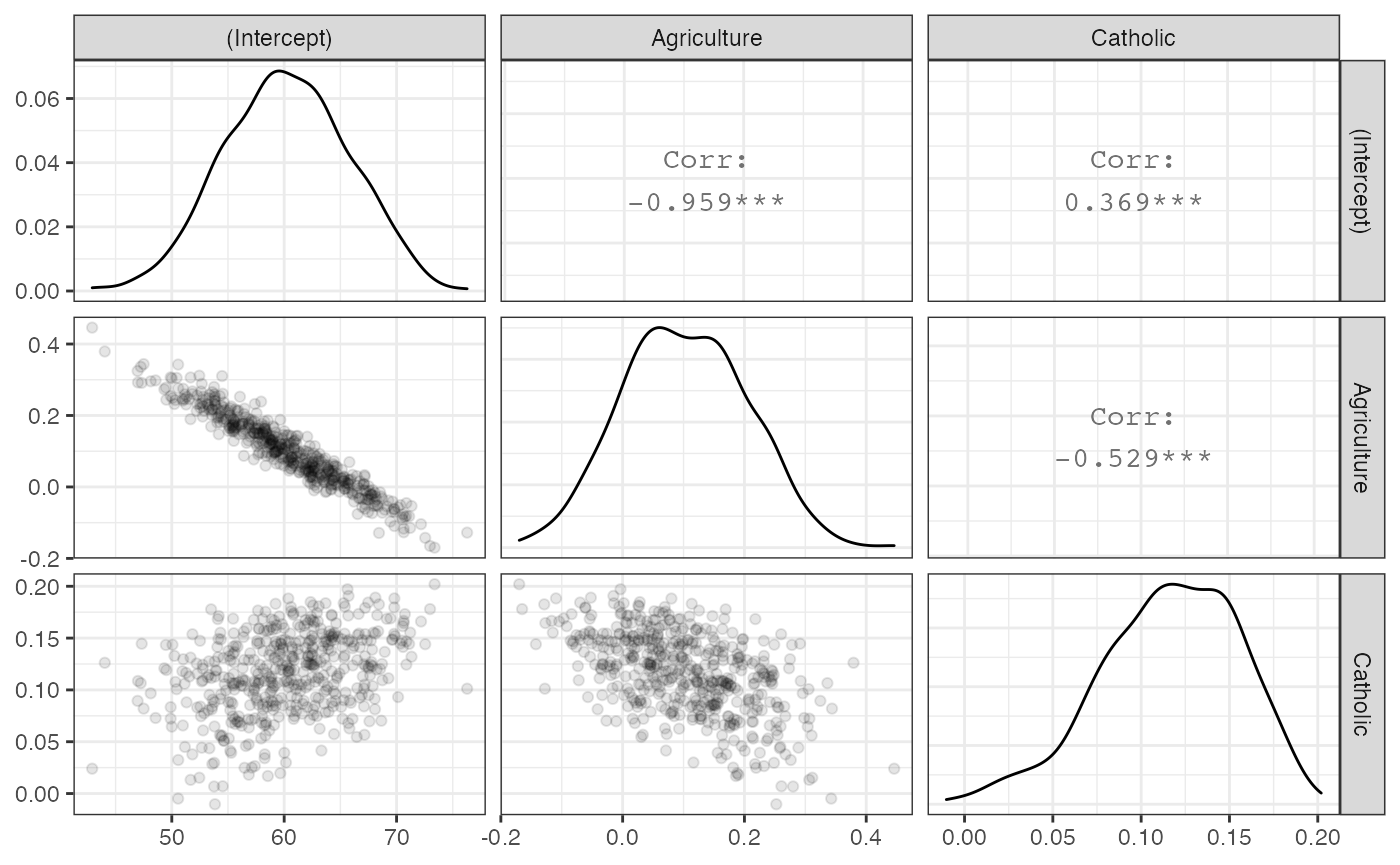
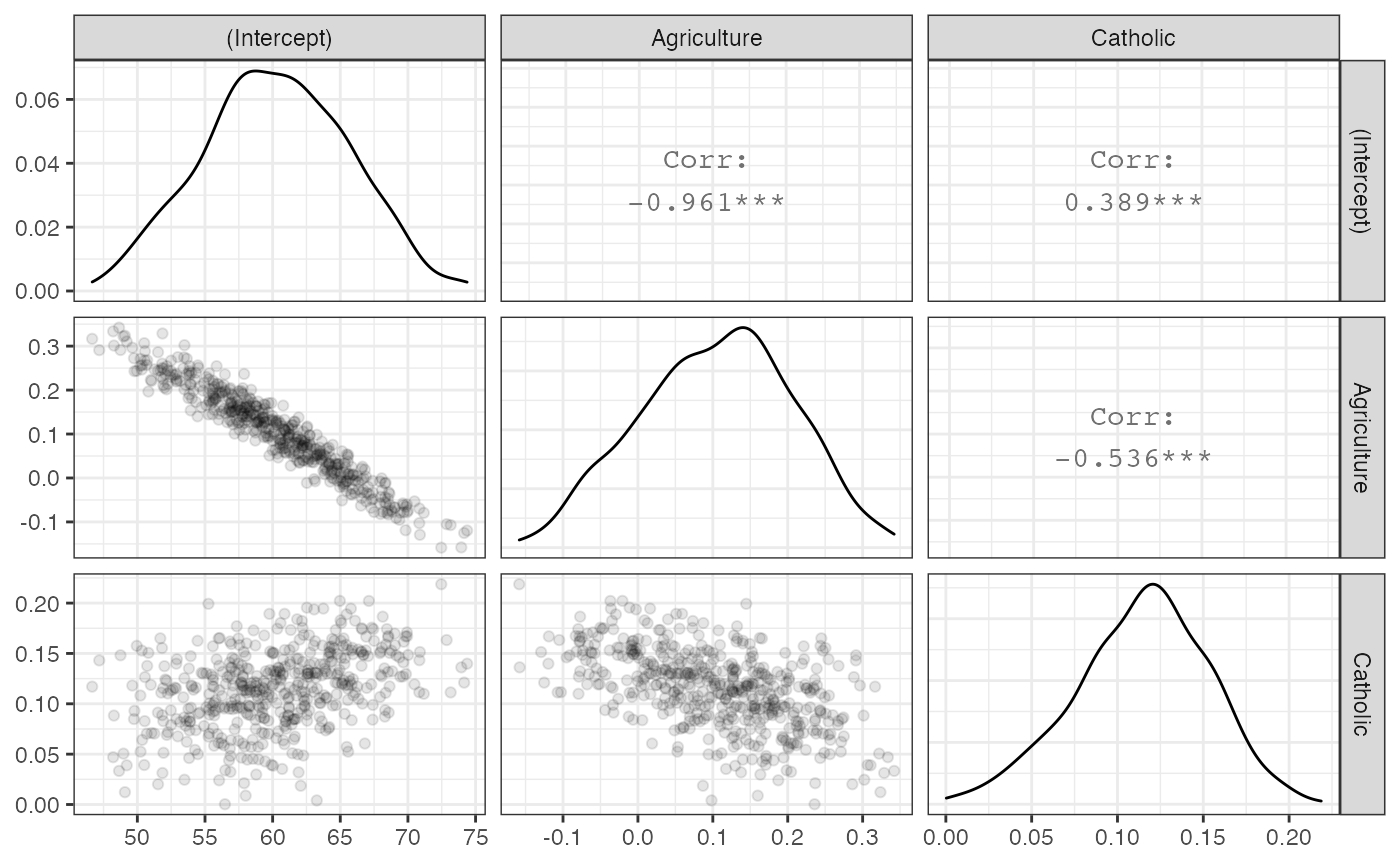
Deploying to gh-pages from  @ 5f8735e298962d34634c9876378ea99cee0b9883 🚀

diff --git a/r/estimatr/articles/estimatr-in-the-tidyverse.html b/r/estimatr/articles/estimatr-in-the-tidyverse.html
@@ -271,72 +271,72 @@
 <tr class="odd">
 <td align="left">1</td>
 <td align="left">(Intercept)</td>
-<td align="right">65.0765411</td>
-<td align="right">5.6414294</td>
-<td align="right">11.5354704</td>
+<td align="right">61.9195031</td>
+<td align="right">3.6852281</td>
+<td align="right">16.8020818</td>
 <td align="right">0.0000000</td>
-<td align="right">53.7069873</td>
-<td align="right">76.4460949</td>
+<td align="right">54.4924140</td>
+<td align="right">69.3465922</td>
 <td align="right">44</td>
 <td align="left">Fertility</td>
 </tr>
 <tr class="even">
 <td align="left">1</td>
 <td align="left">Catholic</td>
-<td align="right">0.0835936</td>
-<td align="right">0.0415143</td>
-<td align="right">2.0136094</td>
-<td align="right">0.0501916</td>
-<td align="right">-0.0000730</td>
-<td align="right">0.1672602</td>
+<td align="right">0.0319474</td>
+<td align="right">0.0436074</td>
+<td align="right">0.7326136</td>
+<td align="right">0.4676791</td>
+<td align="right">-0.0559376</td>
+<td align="right">0.1198323</td>
 <td align="right">44</td>
 <td align="left">Fertility</td>
 </tr>
 <tr class="odd">
 <td align="left">1</td>
 <td align="left">Agriculture</td>
-<td align="right">0.0244790</td>
-<td align="right">0.1016749</td>
-<td align="right">0.2407578</td>
-<td align="right">0.8108612</td>
-<td align="right">-0.1804332</td>
-<td align="right">0.2293913</td>
+<td align="right">0.1377071</td>
+<td align="right">0.0880450</td>
+<td align="right">1.5640543</td>
+<td align="right">0.1249694</td>
+<td align="right">-0.0397359</td>
+<td align="right">0.3151501</td>
 <td align="right">44</td>
 <td align="left">Fertility</td>
 </tr>
 <tr class="even">
 <td align="left">2</td>
 <td align="left">(Intercept)</td>
-<td align="right">57.3460896</td>
-<td align="right">5.0974726</td>
-<td align="right">11.2499065</td>
+<td align="right">59.0139377</td>
+<td align="right">6.1833696</td>
+<td align="right">9.5439770</td>
 <td align="right">0.0000000</td>
-<td align="right">47.0728087</td>
-<td align="right">67.6193705</td>
+<td align="right">46.5521750</td>
+<td align="right">71.4757003</td>
 <td align="right">44</td>
 <td align="left">Fertility</td>
 </tr>
 <tr class="odd">
 <td align="left">2</td>
 <td align="left">Catholic</td>
-<td align="right">0.0999997</td>
-<td align="right">0.0451481</td>
-<td align="right">2.2149285</td>
-<td align="right">0.0319889</td>
-<td align="right">0.0090098</td>
-<td align="right">0.1909897</td>
+<td align="right">0.0964357</td>
+<td align="right">0.0392964</td>
+<td align="right">2.4540578</td>
+<td align="right">0.0181534</td>
+<td align="right">0.0172390</td>
+<td align="right">0.1756324</td>
 <td align="right">44</td>
 <td align="left">Fertility</td>
 </tr>
 <tr class="even">
 <td align="left">2</td>
 <td align="left">Agriculture</td>
-<td align="right">0.1513348</td>
-<td align="right">0.1033881</td>
-<td align="right">1.4637549</td>
-<td align="right">0.1503690</td>
-<td align="right">-0.0570302</td>
-<td align="right">0.3596997</td>
+<td align="right">0.1289227</td>
+<td align="right">0.1107185</td>
+<td align="right">1.1644190</td>
+<td align="right">0.2505291</td>
+<td align="right">-0.0942158</td>
+<td align="right">0.3520612</td>
 <td align="right">44</td>
 <td align="left">Fertility</td>
 </tr>
@@ -350,9 +350,9 @@
 <pre><code>## # A tibble: 3 x 2
 ##   term        boot_se
 ## * &lt;chr&gt;         &lt;dbl&gt;
-## 1 (Intercept)  5.50  
-## 2 Agriculture  0.102 
-## 3 Catholic     0.0393</code></pre>
+## 1 (Intercept)  5.34  
+## 2 Agriculture  0.100 
+## 3 Catholic     0.0385</code></pre>
 <div class="sourceCode" id="cb15"><pre class="downlit sourceCode r">
 <code class="sourceCode R"><span class="co"># To visualize the sampling distribution</span>
 

diff --git a/r/estimatr/articles/absorbing-fixed-effects.html b/r/estimatr/articles/absorbing-fixed-effects.html
@@ -190,10 +190,10 @@
   times <span class="op">=</span> <span class="fl">50</span>
 <span class="op">)</span></code></pre></div>
 <pre><code>## Unit: milliseconds
-##             expr       min        lq      mean    median        uq      max
-##  base + sandwich 175.14321 182.34353 193.88626 186.75647 194.36204 314.3306
-##        lm_robust  78.12279  83.06750  89.52768  87.82031  94.59916 110.3898
-##  lm_robust + fes  50.43612  53.98663  62.28222  57.12642  60.13276 190.7915
+##             expr       min        lq      mean    median        uq       max
+##  base + sandwich 170.05263 173.29989 182.13808 175.90978 178.97664 320.45299
+##        lm_robust  78.34629  80.97188  83.36920  83.52189  85.10409  92.39835
+##  lm_robust + fes  49.53667  51.58646  58.37907  52.55290  54.62498 199.27927
 ##  neval cld
 ##     50   c
 ##     50  b 
@@ -220,14 +220,14 @@
   times <span class="op">=</span> <span class="fl">50</span>
 <span class="op">)</span></code></pre></div>
 <pre><code>## Unit: milliseconds
-##             expr        min         lq      mean     median        uq       max
-##  base + sandwich 174.794535 180.540790 190.30814 184.577352 195.65975 307.81350
-##        lm_robust  61.964460  69.199227  80.89818  72.540098  78.96509 199.77722
-##  lm_robust + fes   7.767524   8.582707  10.10710   9.366071  11.83864  14.39106
-##  neval cld
-##     50   c
-##     50  b 
-##     50 a</code></pre>
+##             expr        min         lq       mean     median         uq
+##  base + sandwich 169.455597 172.377135 176.513175 173.955683 175.647422
+##        lm_robust  61.152882  63.464426  73.028985  65.160711  67.353101
+##  lm_robust + fes   7.688713   8.055001   9.429523   8.669467   9.411864
+##        max neval cld
+##  301.14502    50   c
+##  197.95851    50  b 
+##   13.81101    50 a</code></pre>
 </div>
   </div>
 

diff --git a/r/estimatr/reference/starprep.html b/r/estimatr/reference/starprep.html
@@ -239,7 +239,7 @@ the preferred, robust statistics.</p>
           omit.stat <span class='op'>=</span> <span class='st'>"f"</span><span class='op'>)</span>
 </div><div class='output co'>#&gt; 
 #&gt; % Table created by stargazer v.5.2.2 by Marek Hlavac, Harvard University. E-mail: hlavac at fas.harvard.edu
-#&gt; % Date and time: Fri, Feb 12, 2021 - 23:19:02
+#&gt; % Date and time: Sat, Feb 13, 2021 - 23:21:32
 #&gt; \begin{table}[!htbp] \centering 
 #&gt;   \caption{} 
 #&gt;   \label{} 
@@ -279,7 +279,7 @@ the preferred, robust statistics.</p>
           omit.stat <span class='op'>=</span> <span class='st'>"f"</span><span class='op'>)</span>
 </div><div class='output co'>#&gt; 
 #&gt; % Table created by stargazer v.5.2.2 by Marek Hlavac, Harvard University. E-mail: hlavac at fas.harvard.edu
-#&gt; % Date and time: Fri, Feb 12, 2021 - 23:19:02
+#&gt; % Date and time: Sat, Feb 13, 2021 - 23:21:32
 #&gt; \begin{table}[!htbp] \centering 
 #&gt;   \caption{} 
 #&gt;   \label{} 
@@ -316,7 +316,7 @@ the preferred, robust statistics.</p>
           omit.stat <span class='op'>=</span> <span class='st'>"f"</span><span class='op'>)</span>
 </div><div class='output co'>#&gt; 
 #&gt; % Table created by stargazer v.5.2.2 by Marek Hlavac, Harvard University. E-mail: hlavac at fas.harvard.edu
-#&gt; % Date and time: Fri, Feb 12, 2021 - 23:19:02
+#&gt; % Date and time: Sat, Feb 13, 2021 - 23:21:32
 #&gt; \begin{table}[!htbp] \centering 
 #&gt;   \caption{} 
 #&gt;   \label{} 

diff --git a/r/estimatr/articles/regression-tables.html b/r/estimatr/articles/regression-tables.html
@@ -258,7 +258,7 @@
 <span class="va">fit</span> <span class="op">&lt;-</span> <span class="fu"><a href="../reference/lm_robust.html">lm_robust</a></span><span class="op">(</span><span class="va">mpg</span> <span class="op">~</span> <span class="va">disp</span>, data <span class="op">=</span> <span class="va">mtcars</span><span class="op">)</span>
 <span class="va">fit</span> <span class="op">%&gt;%</span> <span class="va">tidy</span> <span class="op">%&gt;%</span> <span class="fu"><a href="https://rdrr.io/pkg/xtable/man/xtable.html">xtable</a></span><span class="op">(</span><span class="op">)</span></code></pre></div>
 <pre><code>## % latex table generated in R 4.0.3 by xtable 1.8-4 package
-## % Fri Feb 12 23:20:21 2021
+## % Sat Feb 13 23:22:38 2021
 ## \begin{table}[ht]
 ## \centering
 ## \begin{tabular}{rlrrrrrrrl}
